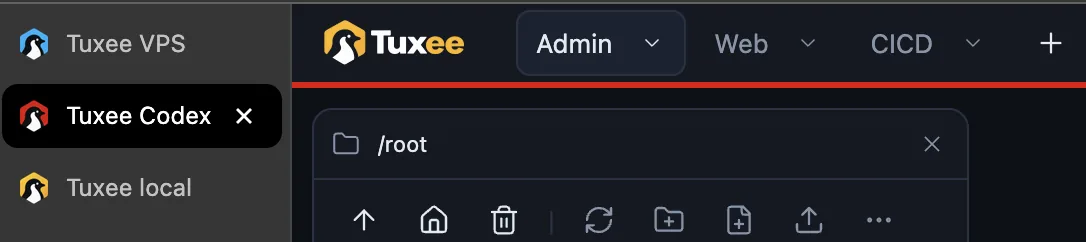
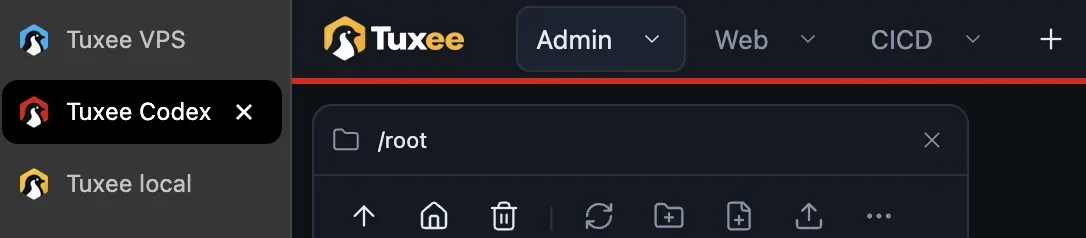
Trim stray edges from How to Tips screenshots
Drop the capture line above the favorites and customization screenshots
and crop the process manager screenshot to the inside of its modal, so
the guide's own border frames clean, centered content.

diff --git a/web/how-to.ts b/web/how-to.ts
@@ -228,15 +228,15 @@ export function openHowTo(savedShortcuts?: ShortcutBindings) {
             const favorites = el('section', 'howto-detail howto-tip-favorites');
             favorites.append(el('h4', '', t('commandShortcuts.favorites')),
                 el('p', '', t('howto.favoritesBody', { favorites: t('commandShortcuts.favorites') })),
-                screenshot(favoritesImage, t('howto.favoritesScreenshot'), 1194, 624));
+                screenshot(favoritesImage, t('howto.favoritesScreenshot'), 1194, 620));
             const customization = el('section', 'howto-detail howto-tip-customization');
             customization.append(el('h4', '', t('howto.customizationTitle')),
                 el('p', '', t('howto.customizationBody')),
-                screenshot(customizationImage, t('howto.customizationScreenshot'), 1086, 242), shortcuts('app.settings'));
+                screenshot(customizationImage, t('howto.customizationScreenshot'), 1086, 238), shortcuts('app.settings'));
             const processes = el('section', 'howto-tip-processes'), processesCopy = el('div', 'howto-detail');
             processesCopy.append(el('h4', '', t('howto.processManagerTitle')),
                 el('p', '', t('howto.processManagerBody', { processes: t('monitor.processes'), monitor: t('app.resourceMonitor') })), shortcuts('app.monitor'));
-            processes.append(processesCopy, screenshot(processesImage, t('howto.processManagerScreenshot'), 872, 772));
+            processes.append(processesCopy, screenshot(processesImage, t('howto.processManagerScreenshot'), 872, 770));
             const updates = el('section', 'howto-tip-updates'), updatesCopy = el('div', 'howto-detail');
             updatesCopy.append(el('h4', '', t('howto.updatesTitle')),
                 el('p', '', t('howto.updatesBody', { about: t('app.about') })), shortcuts('app.about'));

diff --git a/web/AGENTS.md b/web/AGENTS.md
@@ -93,7 +93,7 @@ Settings Connection uses `location.protocol` for the browser's transport, never 
 
 ## Account, onboarding and connection lifecycle
 
-The first action in the Tuxee menu is How to, opening `how-to.ts`’s six-page guide: Introduction, Desktops, Terminals, Files, GUI Apps and Tips. Open it automatically after authenticated workspace rendering when `howToSeen` is absent/false; save `howToSeen` only after the user closes it (the header X, Escape or an outside click), with failed-save rollback and normal error reporting. Showing it, reloading or leaving the page never sets the flag; existing accounts without a true flag also see it. Keep manual reopening available, starting at Introduction. Use the shared modal, theme-specific vertical logo on the left of the introduction copy (stacked on phones), local screenshots and unified catalogs. Replace the visible modal title and ball with compact pagination in the header, aligned vertically with Close. Keep the dots centered in the header with fixed hit targets across every page; labels grow outward from the dots with 12px gaps on desktop. Reserve all translated page-label sizes once through intrinsic grid sizing, so label changes never move the dots horizontally or vertically. Shift the group toward the start edge only when needed to clear Close, and mirror this for RTL. On phones keep the dots centered with the same Close clearance and place the arrow labels beneath. Keep 16px adjacent-page names and clickable solid dots: 8px for other pages and 16px for the selected page, without a second ring. Hide and disable Back on the first page and Forward on the last page, with stable dot positions. Forward only changes pages and never closes the guide, so rapid repeat clicks at the end cannot dismiss it; retain the shared modal dismissal controls. The introduction lists browser-based Linux control, persistent terminals across logout, a minimal headless Linux with Tuxee’s desktop experience, and that Tuxee is free/open source with no telemetry. Distinguish telemetry from automatic release checks and certificate requests; do not promise zero outbound traffic. Use larger 16px chapter buttons for all five topics, including Tips, in one column on phones. Omit icon/page-number rows from content. Guide introductions use the available content width. The Desktops page introduces persistent work grouped by purpose/project, explains adding terminal/file components through top-bar controls or desktop right-clicks, and shows those icons above the real desktop screenshot including the top-bar controls. Follow with grid arrangement and its dragging screenshot, Auto layout, then names/default directories and the menu screenshot. The arrangement section also explains dragging windows between desktops and right-clicking window headers for more options. Explain automatic rules prioritizing terminals, files or balance; render the existing Auto layout icon/label inline in the localized top-bar instruction, without translating HTML. Keep new/close-desktop keyboard hints inside the name/default-directory description block beside the screenshot. Keep only the compressed `howto-desktop*.webp` assets in this subtree (originals and export sizes are owned by [assets/AGENTS.md](../assets/AGENTS.md)); import them through the existing hashed-file build and request them only when their guide page opens, with lazy loading, asynchronous decoding and localized alt text. Keyboard hints between relevant sections use a purple Keyboard icon and muted text without a background box. Align labels and bindings in borderless table columns, preserving the existing spacing. Resolve action labels, both binding slots and platform key names through `shortcuts.ts` using current saved settings; omit disabled bindings and never hardcode shortcut text. Tips starts with Favorites, titled with the existing Favorites label: explain opening Start from the Tuxee logo, saving frequently used commands, files and folders with the + button beside Favorites, opening them in a new terminal or at their path, and right-clicking to edit or delete. Show the supplied 1194×624 Tuxee menu screenshot below the copy at most 597px wide as a separate lazy, hashed `howto-tips-favorites.webp` with localized alt text. Customization follows as the second section, explaining how Server name and Color marker in Settings distinguish managed servers, followed by the supplied 1086×242 screenshot and the current Settings shortcut. Use a separate lazy, hashed `howto-tips-customization.webp` with localized alt text. Follow with Process Manager as the third section: text on the left and the supplied screenshot, exported 872px wide (twice its half-column width), on the right, mirrored for RTL and stacked copy-first on phones. Explain opening Resource monitor from the top-bar resource widget or Tuxee menu, selecting Processes, and inspecting/terminating individual processes when the system is overloaded or terminals stop responding. Use the current resource-monitor shortcut and translated UI labels in the description. Keep its optimized screenshot in a separate lazy, hashed `howto-tips-processes.webp` with localized alt text. Updates is the fourth tip, with the supplied About screenshot, exported 872px wide, on the left and copy on the right, mirrored for RTL and stacked copy-first on phones. Explain checking updates from About, accessible through the Tuxee menu opened by the Tuxee logo; use the translated About label and current About shortcut. Serve the optimized `howto-tips-updates.webp` separately with lazy hashed URLs and localized alt text. All Tips images together stay below 200 KiB. Bar position is the fifth tip, reusing the `Bar position` label as its title: copy on the left explains right-clicking the top bar, choosing Bar position to move it to the bottom, left or right edge, and the same setting under Settings › Panel position, inserting all three translated labels as variables. Show the supplied 632×970 bar context-menu screenshot on the right at most 316px wide, mirrored for RTL and stacked copy-first on phones, as a separate lazy, hashed `howto-tips-bar-position.webp` with localized alt text. End Tips with Keyboard shortcuts: a text-only section explaining customization through the Tuxee menu, with its existing Keyboard icon and translated Shortcuts label inline in the sentence using the same localized-control placeholder pattern as Auto layout. Include the current Shortcuts binding; add no screenshot. Remove the previous layout/files/session cards, anchor sections and synthetic illustrations; keep fitting Tips content free of unnecessary scrolling. Home/End inside content retain native scrolling. Size the guide through the available modal height with flex layout; only the active page scrolls, with no outer/body scrollbar or unnecessary scrolling on fitting pages. Keep the header and pagination fixed, cancel superseded slides, use the desktop transition’s 220 ms/cubic-bezier(.2,.7,.2,1), honor reduced motion and mirror navigation for RTL. Support arrows, Home/End and the normal Escape/close lifecycle without changing mounted workspaces or terminals.
+The first action in the Tuxee menu is How to, opening `how-to.ts`’s six-page guide: Introduction, Desktops, Terminals, Files, GUI Apps and Tips. Open it automatically after authenticated workspace rendering when `howToSeen` is absent/false; save `howToSeen` only after the user closes it (the header X, Escape or an outside click), with failed-save rollback and normal error reporting. Showing it, reloading or leaving the page never sets the flag; existing accounts without a true flag also see it. Keep manual reopening available, starting at Introduction. Use the shared modal, theme-specific vertical logo on the left of the introduction copy (stacked on phones), local screenshots and unified catalogs. Replace the visible modal title and ball with compact pagination in the header, aligned vertically with Close. Keep the dots centered in the header with fixed hit targets across every page; labels grow outward from the dots with 12px gaps on desktop. Reserve all translated page-label sizes once through intrinsic grid sizing, so label changes never move the dots horizontally or vertically. Shift the group toward the start edge only when needed to clear Close, and mirror this for RTL. On phones keep the dots centered with the same Close clearance and place the arrow labels beneath. Keep 16px adjacent-page names and clickable solid dots: 8px for other pages and 16px for the selected page, without a second ring. Hide and disable Back on the first page and Forward on the last page, with stable dot positions. Forward only changes pages and never closes the guide, so rapid repeat clicks at the end cannot dismiss it; retain the shared modal dismissal controls. The introduction lists browser-based Linux control, persistent terminals across logout, a minimal headless Linux with Tuxee’s desktop experience, and that Tuxee is free/open source with no telemetry. Distinguish telemetry from automatic release checks and certificate requests; do not promise zero outbound traffic. Use larger 16px chapter buttons for all five topics, including Tips, in one column on phones. Omit icon/page-number rows from content. Guide introductions use the available content width. The Desktops page introduces persistent work grouped by purpose/project, explains adding terminal/file components through top-bar controls or desktop right-clicks, and shows those icons above the real desktop screenshot including the top-bar controls. Follow with grid arrangement and its dragging screenshot, Auto layout, then names/default directories and the menu screenshot. The arrangement section also explains dragging windows between desktops and right-clicking window headers for more options. Explain automatic rules prioritizing terminals, files or balance; render the existing Auto layout icon/label inline in the localized top-bar instruction, without translating HTML. Keep new/close-desktop keyboard hints inside the name/default-directory description block beside the screenshot. Keep only the compressed `howto-desktop*.webp` assets in this subtree (originals and export sizes are owned by [assets/AGENTS.md](../assets/AGENTS.md)); import them through the existing hashed-file build and request them only when their guide page opens, with lazy loading, asynchronous decoding and localized alt text. Keyboard hints between relevant sections use a purple Keyboard icon and muted text without a background box. Align labels and bindings in borderless table columns, preserving the existing spacing. Resolve action labels, both binding slots and platform key names through `shortcuts.ts` using current saved settings; omit disabled bindings and never hardcode shortcut text. Tips starts with Favorites, titled with the existing Favorites label: explain opening Start from the Tuxee logo, saving frequently used commands, files and folders with the + button beside Favorites, opening them in a new terminal or at their path, and right-clicking to edit or delete. Show the supplied Tuxee menu screenshot, exported 1194×620, below the copy at most 597px wide as a separate lazy, hashed `howto-tips-favorites.webp` with localized alt text. Customization follows as the second section, explaining how Server name and Color marker in Settings distinguish managed servers, followed by the supplied screenshot, exported 1086×238, and the current Settings shortcut. Use a separate lazy, hashed `howto-tips-customization.webp` with localized alt text. Follow with Process Manager as the third section: text on the left and the supplied screenshot, exported 872px wide (twice its half-column width), on the right, mirrored for RTL and stacked copy-first on phones. Explain opening Resource monitor from the top-bar resource widget or Tuxee menu, selecting Processes, and inspecting/terminating individual processes when the system is overloaded or terminals stop responding. Use the current resource-monitor shortcut and translated UI labels in the description. Keep its optimized screenshot in a separate lazy, hashed `howto-tips-processes.webp` with localized alt text. Updates is the fourth tip, with the supplied About screenshot, exported 872px wide, on the left and copy on the right, mirrored for RTL and stacked copy-first on phones. Explain checking updates from About, accessible through the Tuxee menu opened by the Tuxee logo; use the translated About label and current About shortcut. Serve the optimized `howto-tips-updates.webp` separately with lazy hashed URLs and localized alt text. All Tips images together stay below 200 KiB. Bar position is the fifth tip, reusing the `Bar position` label as its title: copy on the left explains right-clicking the top bar, choosing Bar position to move it to the bottom, left or right edge, and the same setting under Settings › Panel position, inserting all three translated labels as variables. Show the supplied 632×970 bar context-menu screenshot on the right at most 316px wide, mirrored for RTL and stacked copy-first on phones, as a separate lazy, hashed `howto-tips-bar-position.webp` with localized alt text. End Tips with Keyboard shortcuts: a text-only section explaining customization through the Tuxee menu, with its existing Keyboard icon and translated Shortcuts label inline in the sentence using the same localized-control placeholder pattern as Auto layout. Include the current Shortcuts binding; add no screenshot. Remove the previous layout/files/session cards, anchor sections and synthetic illustrations; keep fitting Tips content free of unnecessary scrolling. Home/End inside content retain native scrolling. Size the guide through the available modal height with flex layout; only the active page scrolls, with no outer/body scrollbar or unnecessary scrolling on fitting pages. Keep the header and pagination fixed, cancel superseded slides, use the desktop transition’s 220 ms/cubic-bezier(.2,.7,.2,1), honor reduced motion and mirror navigation for RTL. Support arrows, Home/End and the normal Escape/close lifecycle without changing mounted workspaces or terminals.
 
 The Terminals guide's opening paragraph covers persistence across disconnection, logout and Tuxee restart and AI-agent work. The Post mortem section must not imply that restarts or updates end terminals: it says terminals are resilient, then that lost or closed terminals become archived text transcripts including full-screen app snapshots, for reviewing earlier work. The guide also covers retained terminals, the input drawer, text snapshots, files/clipboard and Settings. Below the wide Post mortem screenshot, explain opening Retained terminals from the Tuxee menu to find lost or closed terminals, with its screenshot on the right at most 300px wide. Place the drawer screenshot on the left and the text-view screenshot on the right, each at most 360px wide, alternating from the retained-terminals image on the right. Stack copy before images on phones. Keep the main, archive and files screenshots wide. Use the supplied screenshots converted to optimized `howto-terminal-*.webp` assets at full resolution, capped at twice their rendered width per [assets/AGENTS.md](../assets/AGENTS.md) (under 320 KiB combined), with lazy hashed URLs and localized alt text. Use current action bindings and the actual input-drawer hint. Distinguish existing Tuxee paths from computer files/screenshots uploaded to `~/uploads`; inserting paths never submits them. Omit the read-only reminder and the instruction to submit input when ready.
 

diff --git a/assets/AGENTS.md b/assets/AGENTS.md
@@ -37,7 +37,11 @@ CSS width: 1800px for full-width guide images (the modal content is about 900px)
 872px for half-column images beside copy, or twice the CSS cap for constrained side images (e.g. 514px for the 257px
 desktop menu). Use quality around 82, keep size budgets from `web/AGENTS.md`
 and update the width/height passed to `screenshot()` in `web/how-to.ts` and
-`tests/how-to.mjs`. README copies follow `.github/resources/AGENTS.md`.
+`tests/how-to.mjs`. Crop exports, never the originals, so the guide's own
+border frames clean content: drop the 4px capture line above the Tips favorites
+and customization screenshots, and crop the Tips processes screenshot to the
+inside of the modal border (11,17–1807,1603 of the original) so no page
+backdrop remains. README copies follow `.github/resources/AGENTS.md`.
 
 # Verification
 
